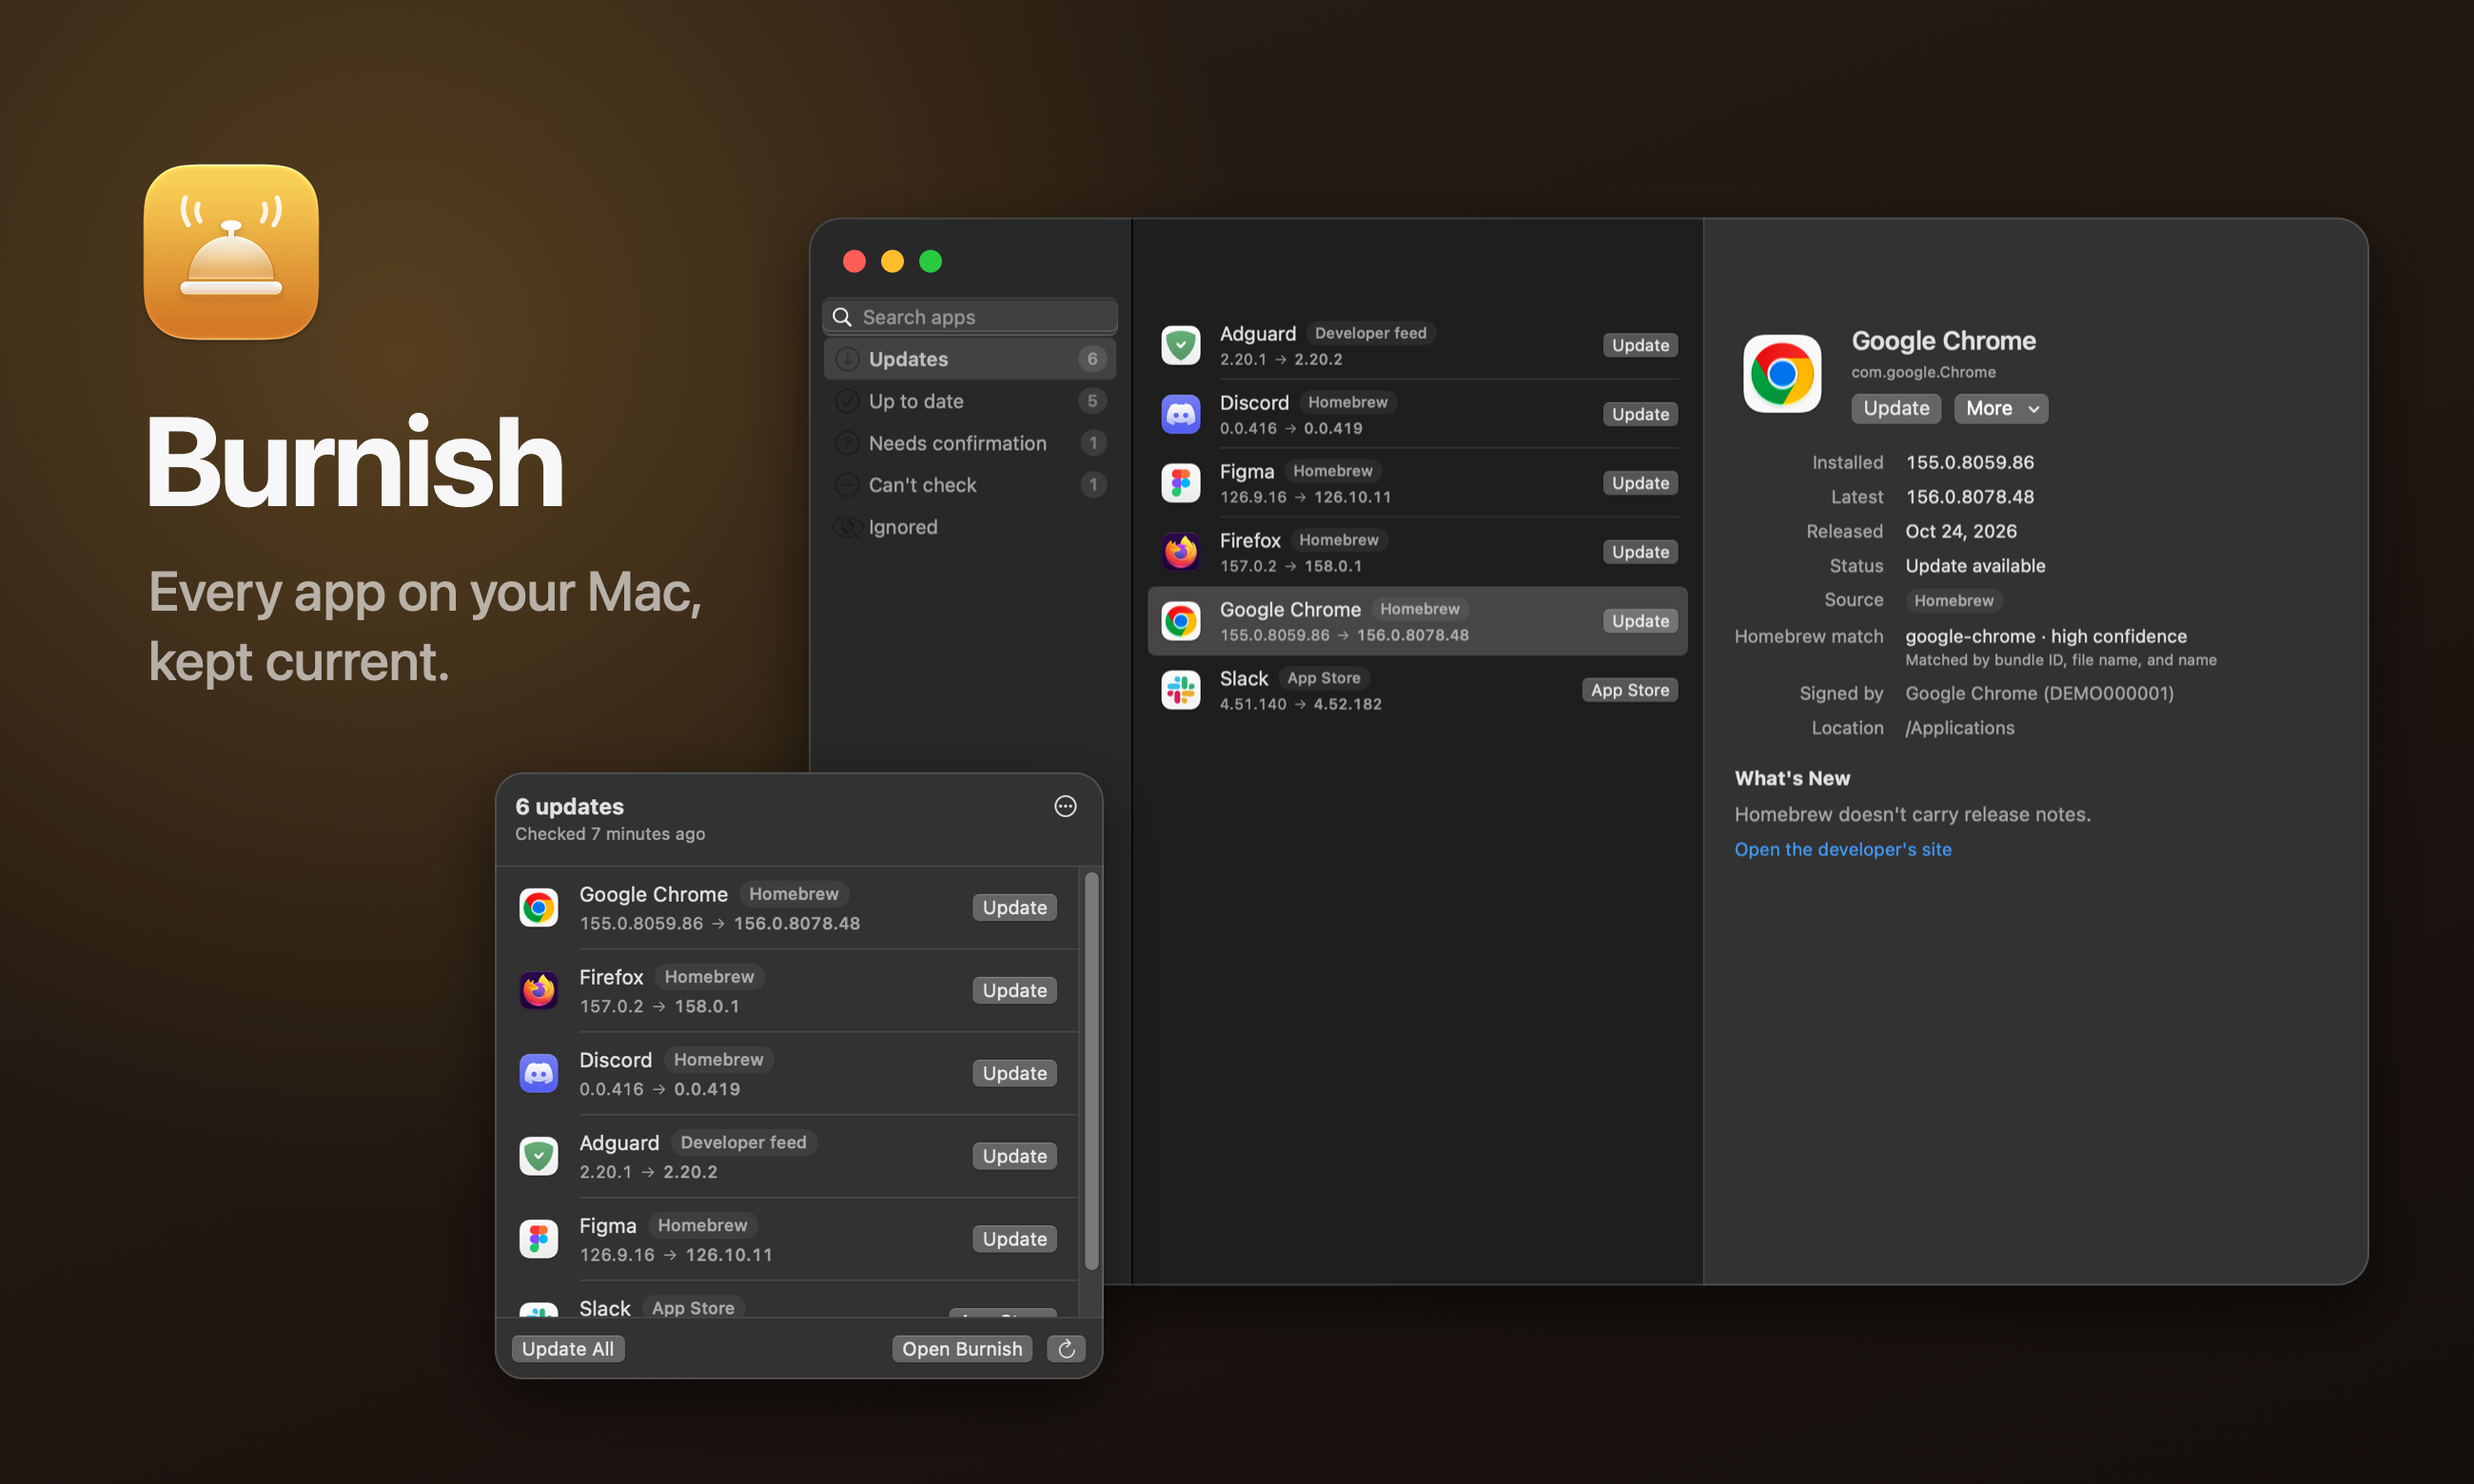
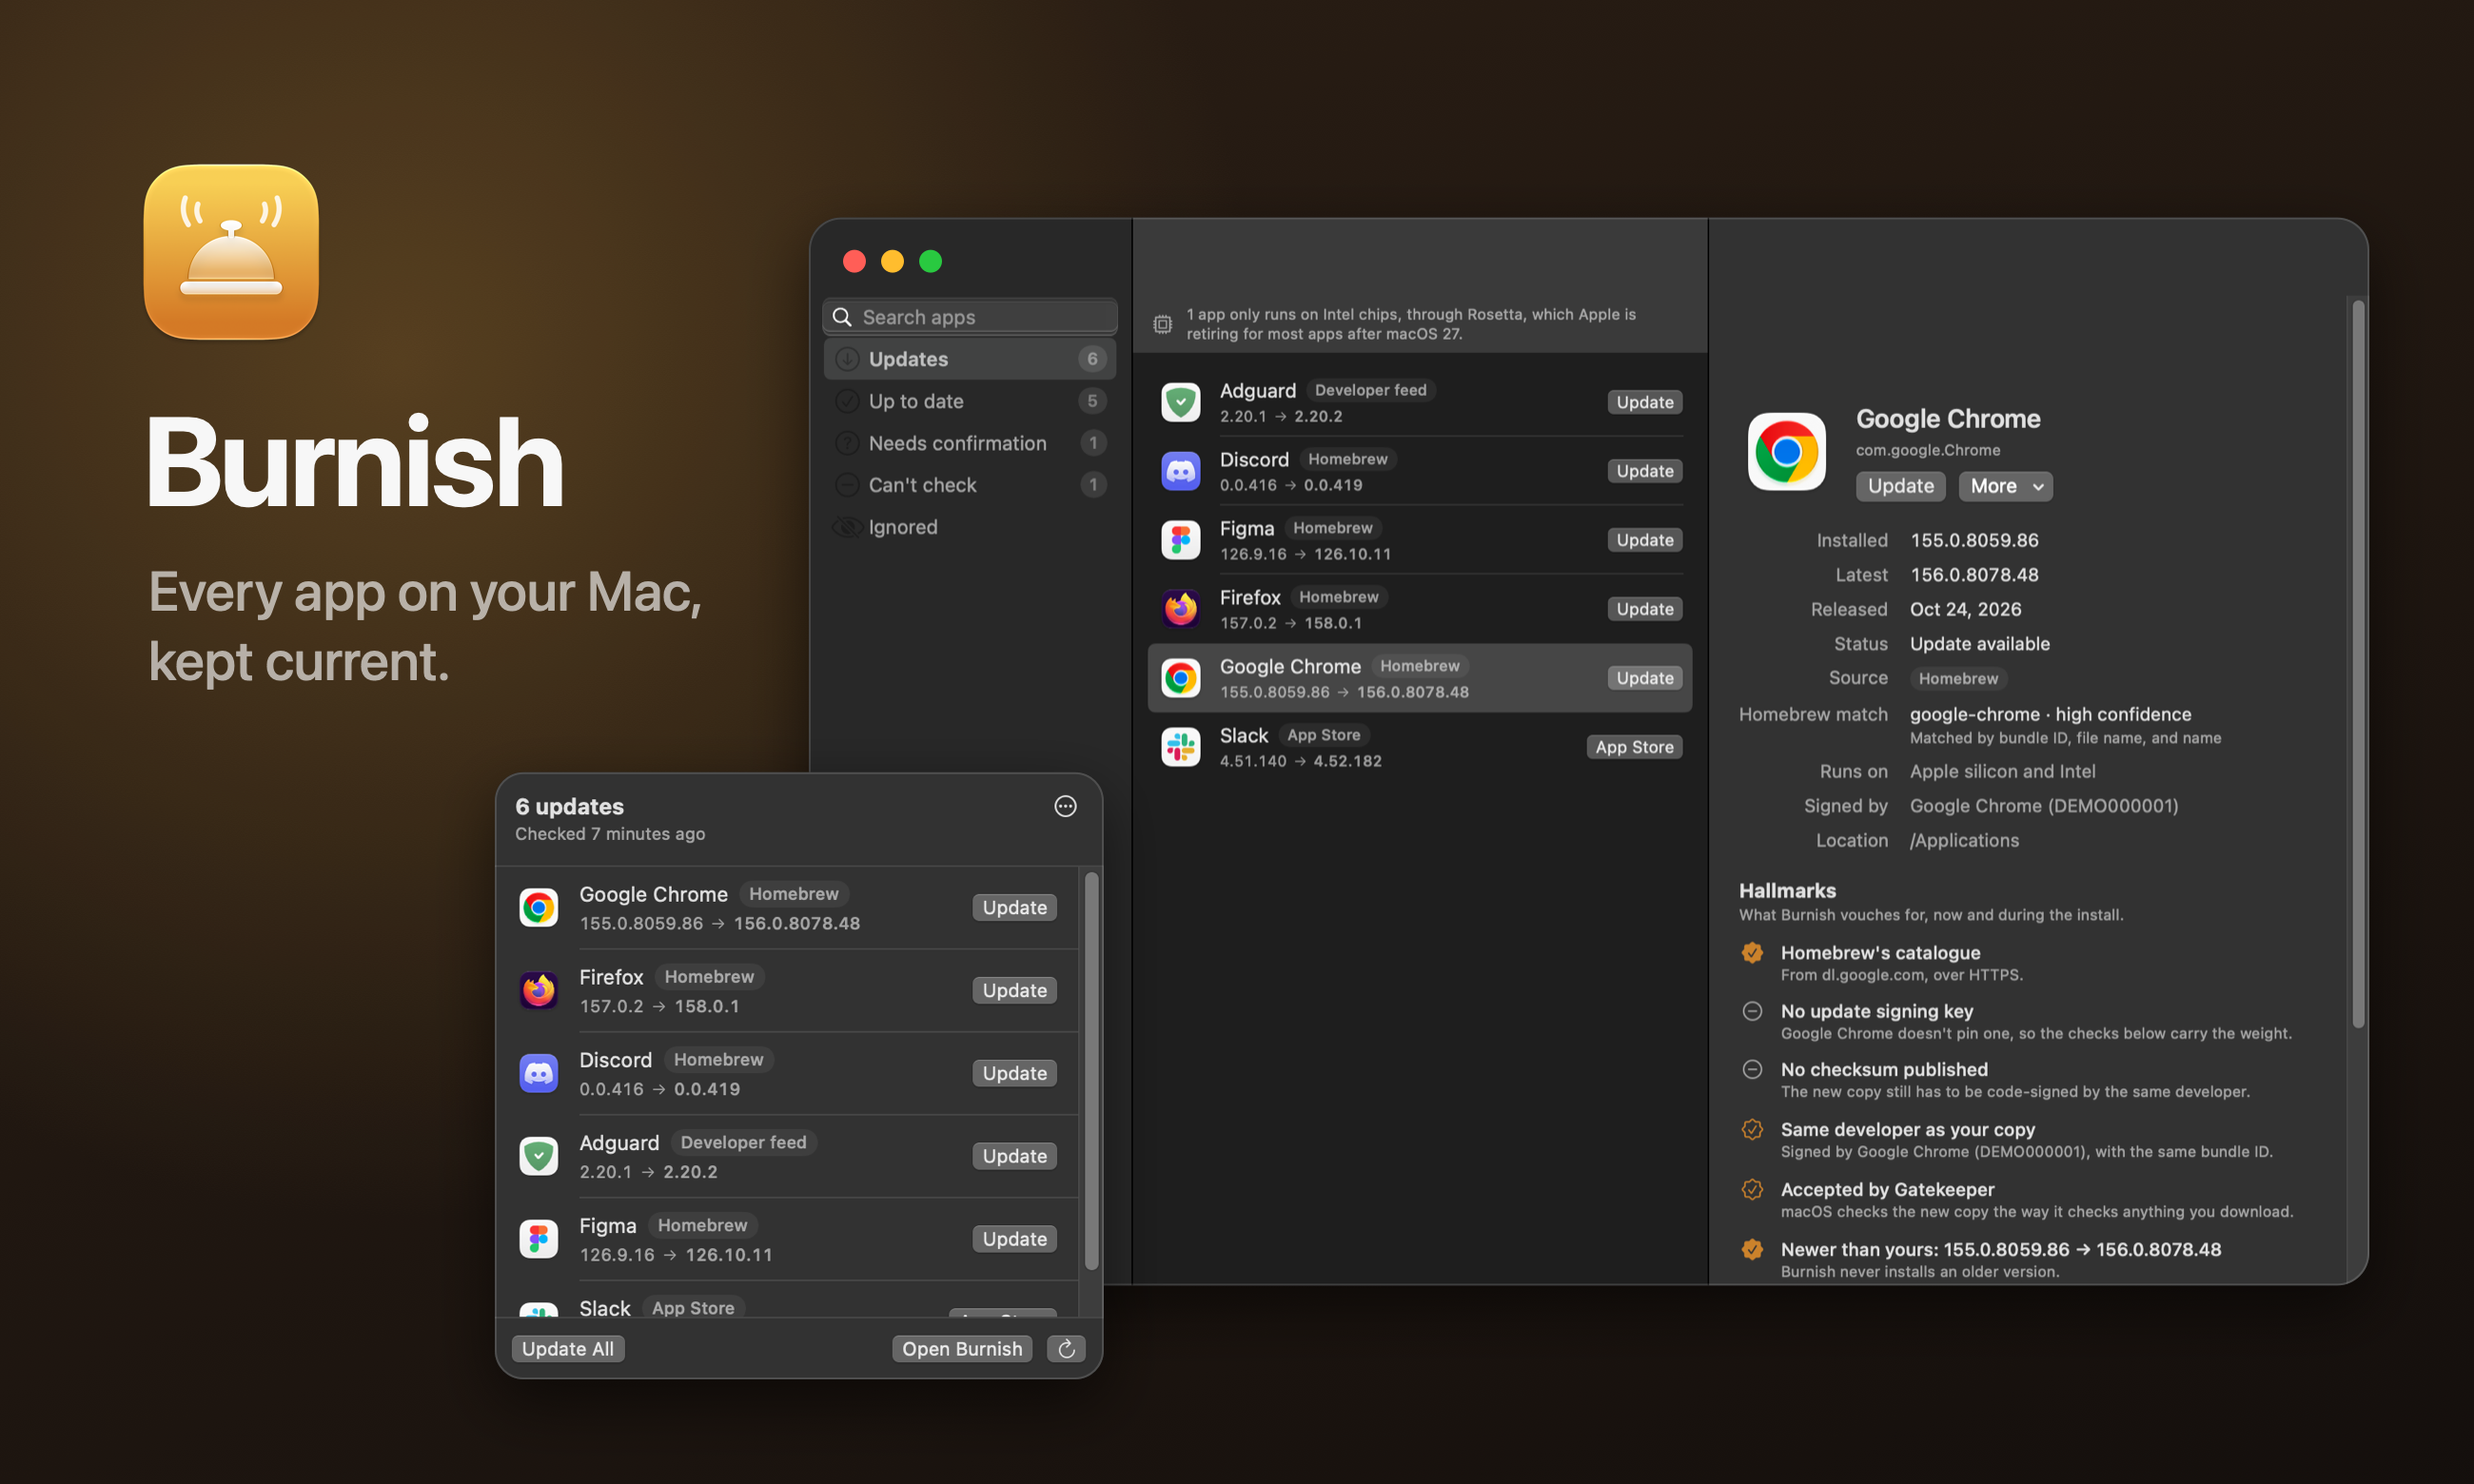
Write up 0.3.0-beta: Burnish now shows its working
The notes for the next beta cover hallmarks, automatic updates with a wait, rules for each app,
the quick read of release notes, Intel-only flags, community feeds, the longer way back,
Shortcuts links, configuration profiles and the details inspector. The README gains "Before you
click Update" and "Automatic updates" sections, lists community feeds among the requests Burnish
makes, and its banner shows the new window. Demo apps now download from their real hosts, so the
sample Chrome no longer claims to come from example.com.

Changed region(s): [[0.4362, 0.1231, 0.9346, 0.8615], [0.9346, 0.2154, 0.9658, 0.6769]]

diff --git a/Sources/BurnishApp/PreviewRenderer.swift b/Sources/BurnishApp/PreviewRenderer.swift
@@ -128,10 +128,15 @@ enum DemoData {
                      modificationDate: Date().addingTimeInterval(-86400 * 20))
     }
 
+    /// Where each sample app's download would come from, so the Hallmarks read naturally.
+    static let hosts = ["Google Chrome": "dl.google.com", "Firefox": "download-installer.cdn.mozilla.net",
+                        "Discord": "dl.discordapp.net", "Adguard": "static.adtidy.org", "Figma": "desktop.figma.com"]
+
     static func outdated(_ app: InstalledApp, _ latest: String, _ source: SourceKind, token: String? = nil, major: Bool = false,
                          notes: ReleaseNotes? = nil, daysAgo: Double = 2) -> AppCheckResult {
+        let host = hosts[app.name] ?? "example.com"
         let release = Release(source: source, version: VersionPair(short: latest), basis: .shortVersion,
-                              downloadURL: source == .appStore ? nil : URL(string: "https://example.com/\(app.name).dmg"),
+                              downloadURL: source == .appStore ? nil : URL(string: "https://\(host)/\(app.name.replacingOccurrences(of: " ", with: "")).dmg"),
                               downloadPage: URL(string: "https://example.com"), releaseNotes: notes,
                               date: Date().addingTimeInterval(-86400 * daysAgo))
         var result = AppCheckResult(app: app, status: .outdated(UpdateCandidate(release: release, isMajorUpgrade: major)), decidedBy: source)

diff --git a/README.md b/README.md
@@ -29,6 +29,7 @@ Most Macs collect apps from everywhere: direct downloads, the App Store, Homebre
 - **It finds updates for apps from anywhere.** Each app is checked against the best source it has: its developer's own update feed first, the App Store for App Store apps, and Homebrew's public app list for everything else, however the app was installed.
 - **It never guesses.** When Burnish isn't sure which app is which, it asks under *Needs confirmation* instead of raising a false alarm. Anything it can't check says why.
 - **It updates like a careful person would.** Every download is checked before anything changes, apps are asked politely to quit, and the old version goes to the Trash, so nothing is ever lost.
+- **It shows its working.** Every update lists where it comes from and the checks it has to pass, and the release notes come with a quick read up top.
 
 ## What it checks
 
@@ -47,6 +48,19 @@ Some apps are meant to be updated by their developer's own tool: Microsoft AutoU
 
 Apps you installed with `brew install --cask` show as **Managed by Homebrew**; Burnish leaves them to `brew upgrade` unless you turn on Homebrew updates in Settings, so the two never fight.
 
+## Before you click Update
+
+Pick an app and its details slide in beside the list:
+
+- **Hallmarks.** Where the download comes from and each check it must pass: the developer's signature, the published checksum, the same developer as your copy, Gatekeeper. A check the source can't offer says so instead of quietly passing.
+- **A quick read.** The developer's notes sorted into security fixes, new things, fixes and improvements, marked as a summary and built only from what the developer wrote. The full notes sit folded underneath, and if you skipped versions, so do theirs.
+- **Its own rules.** Install this app's updates automatically or only announce them, stay on the major version you have, or include betas where the developer publishes them.
+- **Intel only?** Apps built only for Intel chips are flagged, since Rosetta is going away for most apps after macOS 27.
+
+## Automatic updates
+
+Off until you turn them on. Then Burnish installs minor updates by itself for apps that aren't open, once each update has been out as long as you choose (three days unless you say otherwise), so a bad release has time to be pulled. Security updates skip the wait. Major upgrades, anything Burnish can't install with all eight promises, and everything on Low Data Mode wait for you.
+
 ## Eight promises
 
 Burnish replaces other apps on your Mac, so every install keeps all eight of these, or it doesn't happen and you get the developer's download page instead:
@@ -57,7 +71,7 @@ Burnish replaces other apps on your Mac, so every install keeps all eight of the
 4. **The same developer.** The new copy must pass Gatekeeper and be signed by an Apple-issued certificate for the same team as the copy you have, with the same bundle ID. Apps without a developer signature are never replaced.
 5. **No installer packages run on their own.** A verified `.pkg` opens in Apple's Installer, so you see every step.
 6. **No force-quitting.** Burnish asks an app to quit and waits. If it has unsaved work, you decide.
-7. **Nothing deleted.** The old version goes to the Trash; the new one takes its place and reopens if it was running. Changed your mind? **Put Back** returns the earlier version, after checking it the same way.
+7. **Nothing deleted.** The old version goes to the Trash; the new one takes its place and reopens if it was running. Changed your mind? **Put Back** returns the earlier version, after checking it the same way. Turn on **Keep earlier versions** and it waits in Burnish's own folder for 30 days instead, safe from an emptied Trash.
 8. **Your password stays yours.** When a folder needs admin rights, macOS asks you itself.
 
 Major upgrades (5.x → 6.x) are marked *May be paid* and never included in **Update All**.
@@ -70,9 +84,9 @@ No account, no analytics, no crash reports. Logs stay on your Mac. These are the
 | --- | --- | --- |
 | Homebrew's app list (`formulae.brew.sh`) | At most once a day | Nothing about your apps |
 | Apple's App Store lookup (`itunes.apple.com`) | Each check, if you have App Store apps | Their bundle IDs (you can turn this off) |
-| Each app's own update feed, and release-notes links in it | Each check | Nothing beyond the request |
-| GitHub's releases API, for apps whose download lives on GitHub | Each check, cached | Nothing beyond the request |
-| Community match fixes (this repository) | At most once a day (you can turn this off) | Nothing |
+| Each app's own update feed, or the one the community file lists for it, and release-notes links in it | Each check | Nothing beyond the request |
+| GitHub's releases API, for apps whose download lives on GitHub or that the community file points there | Each check, cached | Nothing beyond the request |
+| Community match fixes and update feeds (this repository) | At most once a day (you can turn this off) | Nothing |
 | The update download itself | When you update | Nothing beyond the request |
 | Burnish's own update feed (this repository's releases) | About once a day | Nothing beyond the request |
 
@@ -166,7 +180,10 @@ JSON and CSV reports. [docs/ADMINS.md](docs/ADMINS.md) has every key and an exam
 ✅ Safe one-click and Update All installs, with the old version kept in the Trash<br>
 ✅ Ignore a version or an app, and correct a match<br>
 ✅ Put back the version an update replaced, and a history for every app<br>
-✅ A desktop widget with the update count and the first three apps<br>
+✅ Hallmarks and a quick read of the release notes for every update<br>
+✅ Automatic updates after a wait you choose, and rules for each app<br>
+✅ Intel-only apps flagged before Rosetta goes<br>
+✅ A desktop widget, Shortcuts links and configuration profiles for IT<br>
 ✅ Daily check with at most one notification a day<br>
 ✅ Burnish updates itself
 

diff --git a/docs/HISTORY.md b/docs/HISTORY.md
@@ -1,5 +1,55 @@
 # Version history
 
+## 0.3.0-beta — 2026-10-25
+Burnish now shows its working.
+
++ Every update lists where it comes from and the checks it has to pass before it goes in.
++ Minor updates can install themselves, after a wait you choose.
++ Release notes get a quick read up top, plus what you missed if you skipped a few versions.
++ Apps that only run on Intel get flagged while there's still time.
++ Each app can have its own rules: stay on version 5, try the betas, or just let me know.
+
+- **Every update shows its hallmarks.** An app's details now list where the download comes from
+  and each check it has to pass before Burnish installs it: the developer's signature, the
+  published checksum, the same developer as your copy, Gatekeeper. A check the source can't offer
+  says so instead of quietly passing, and the app's history records which ones ran. Like the marks
+  stamped on silver, only for apps.
+- **Updates can install themselves, but only the boring ones.** Turn on automatic updates in
+  Settings and Burnish installs minor updates for apps that aren't open, once they've been out as
+  long as you choose: three days unless you say otherwise. Security updates skip the wait. Major
+  upgrades, anything Burnish can't install with every check, and anything at all on Low Data Mode
+  still wait for you.
+- **Rules for each app.** In an app's details you can have its updates installed automatically or
+  only announced, stay on the major version you have, or include beta releases where the
+  developer publishes them.
+- **A quick read of the release notes.** Burnish sorts the developer's notes into security fixes,
+  new things, fixes and improvements, and shows the first few, clearly marked as a summary. It
+  only ever repeats what the developer wrote, and the full notes sit folded underneath. Skipped a
+  few versions? It lists what each one brought.
+- **Intel-only apps get flagged.** Apps built only for Intel chips run through Rosetta, which Apple
+  is retiring for most apps after macOS 27. Burnish marks them and says how many you have, so
+  there's time to find a newer build or a replacement.
+- **The community can point Burnish at feeds apps forget to mention.** A line in this repository's
+  community file lets Burnish check an app that names no update feed and isn't in Homebrew. It
+  shows the new version and its notes, then leaves the install to you, because the app never named
+  that feed itself.
+- **A longer way back.** Turn on *Keep earlier versions* and the version an update replaces waits
+  in Burnish's own folder for 30 days, so emptying the Trash doesn't take Put Back with it. After
+  that it goes to the Trash.
+- **Shortcuts and links.** `burnish://check`, `burnish://update-all` and `burnish://open` work from
+  Shortcuts' Open URL, the `burnish` command-line tool now ships inside the app with a new `count`
+  command, and the daily notification has an Update All button.
+- **IT can set Burnish up once.** Settings delivered in a configuration profile are applied and
+  shown as set by your organisation. [The admin guide](https://github.com/EnigmaticZee/Burnish/blob/main/docs/ADMINS.md) lists every key.
+- **Details open when you ask for them.** The list gets the whole window until you pick an app,
+  and Escape puts the details away again. Right-click any app, in the window or the menu bar, to
+  update it, ignore it or show it in Finder.
+- **Fixed:** notices about being offline or needing App Management no longer sit on top of the
+  sidebar's search field.
+
+Nothing to do: Burnish updates itself as usual, and automatic updates stay off until you turn them
+on.
+
 ## 0.2.0-beta — 2026-10-25
 Now accepting returns.
 
